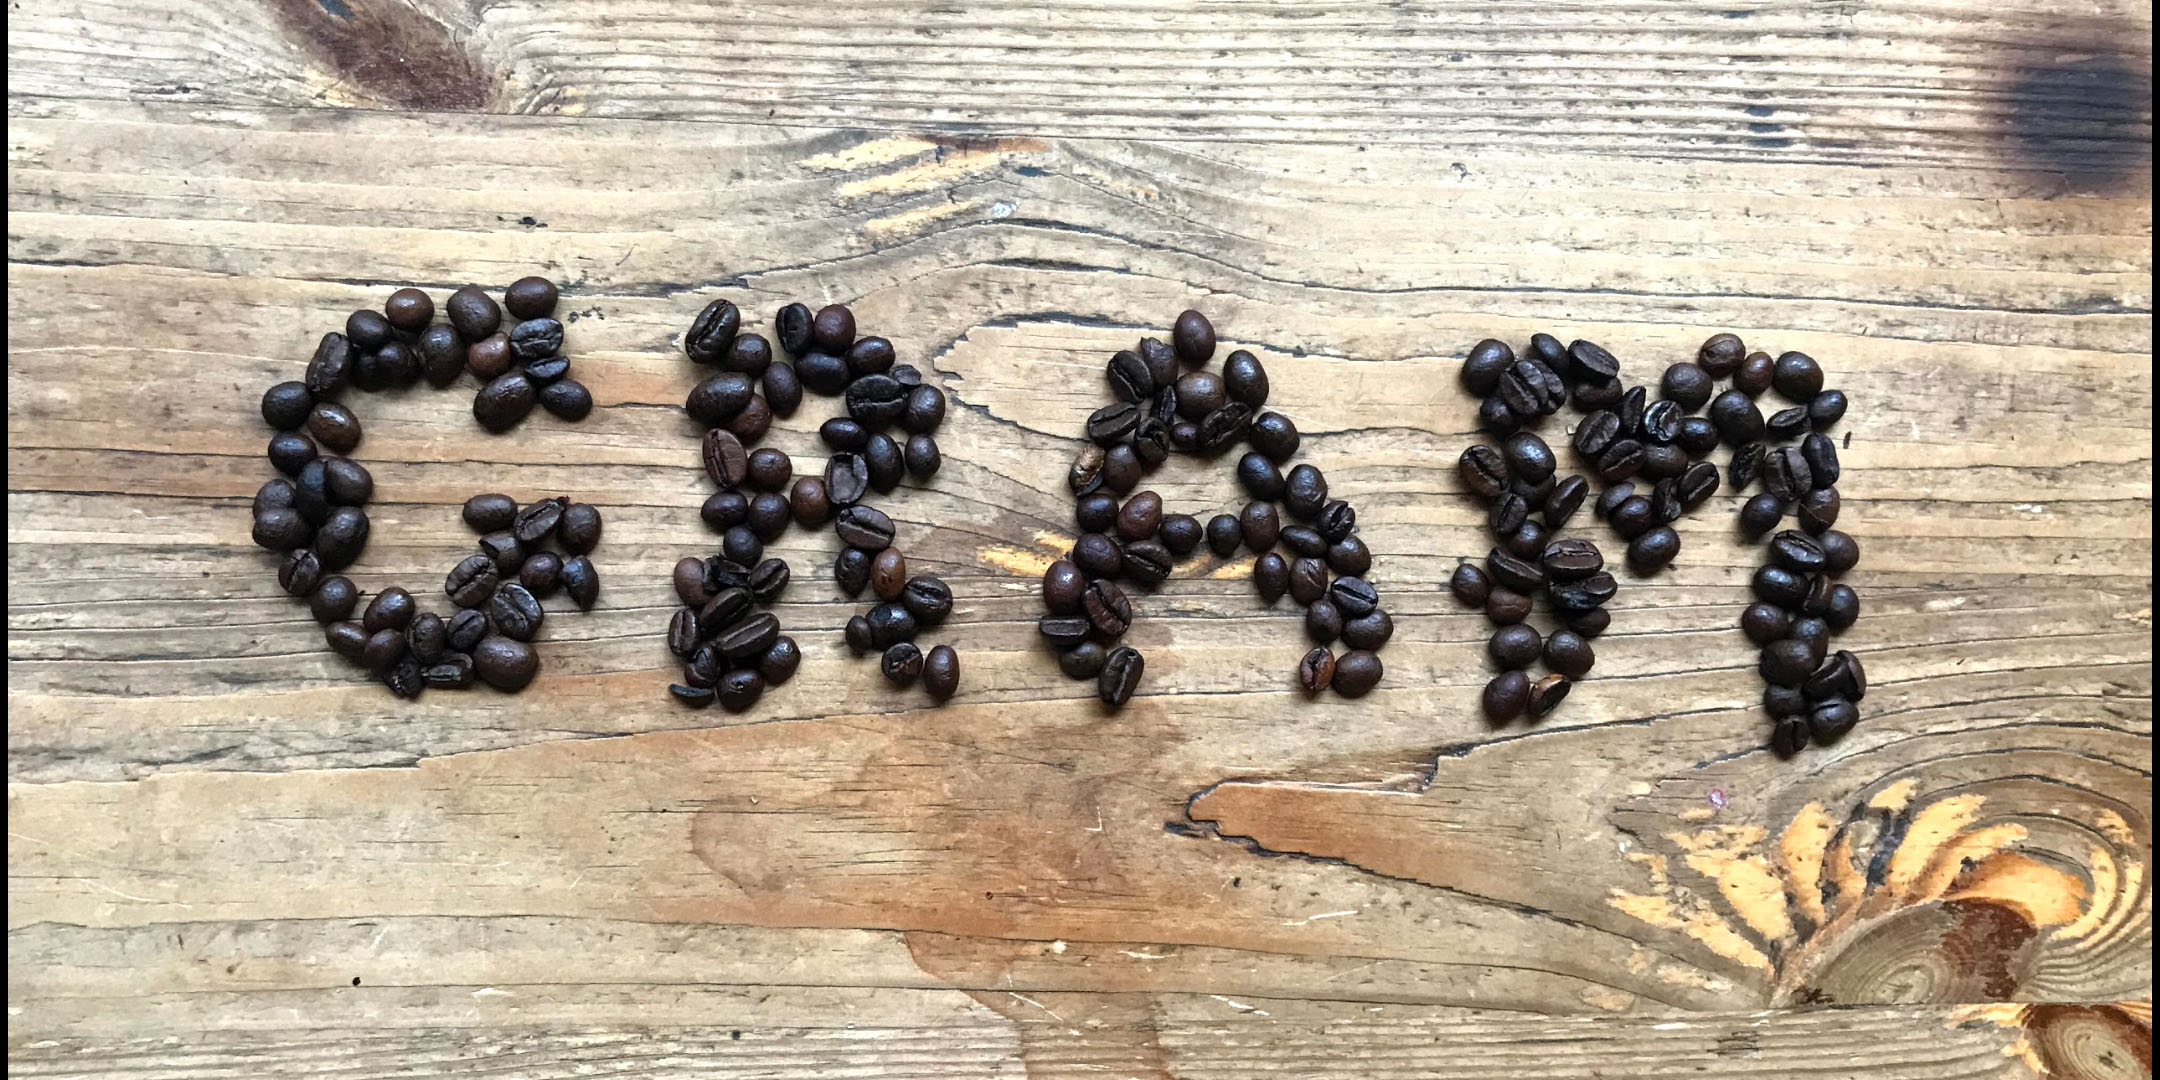
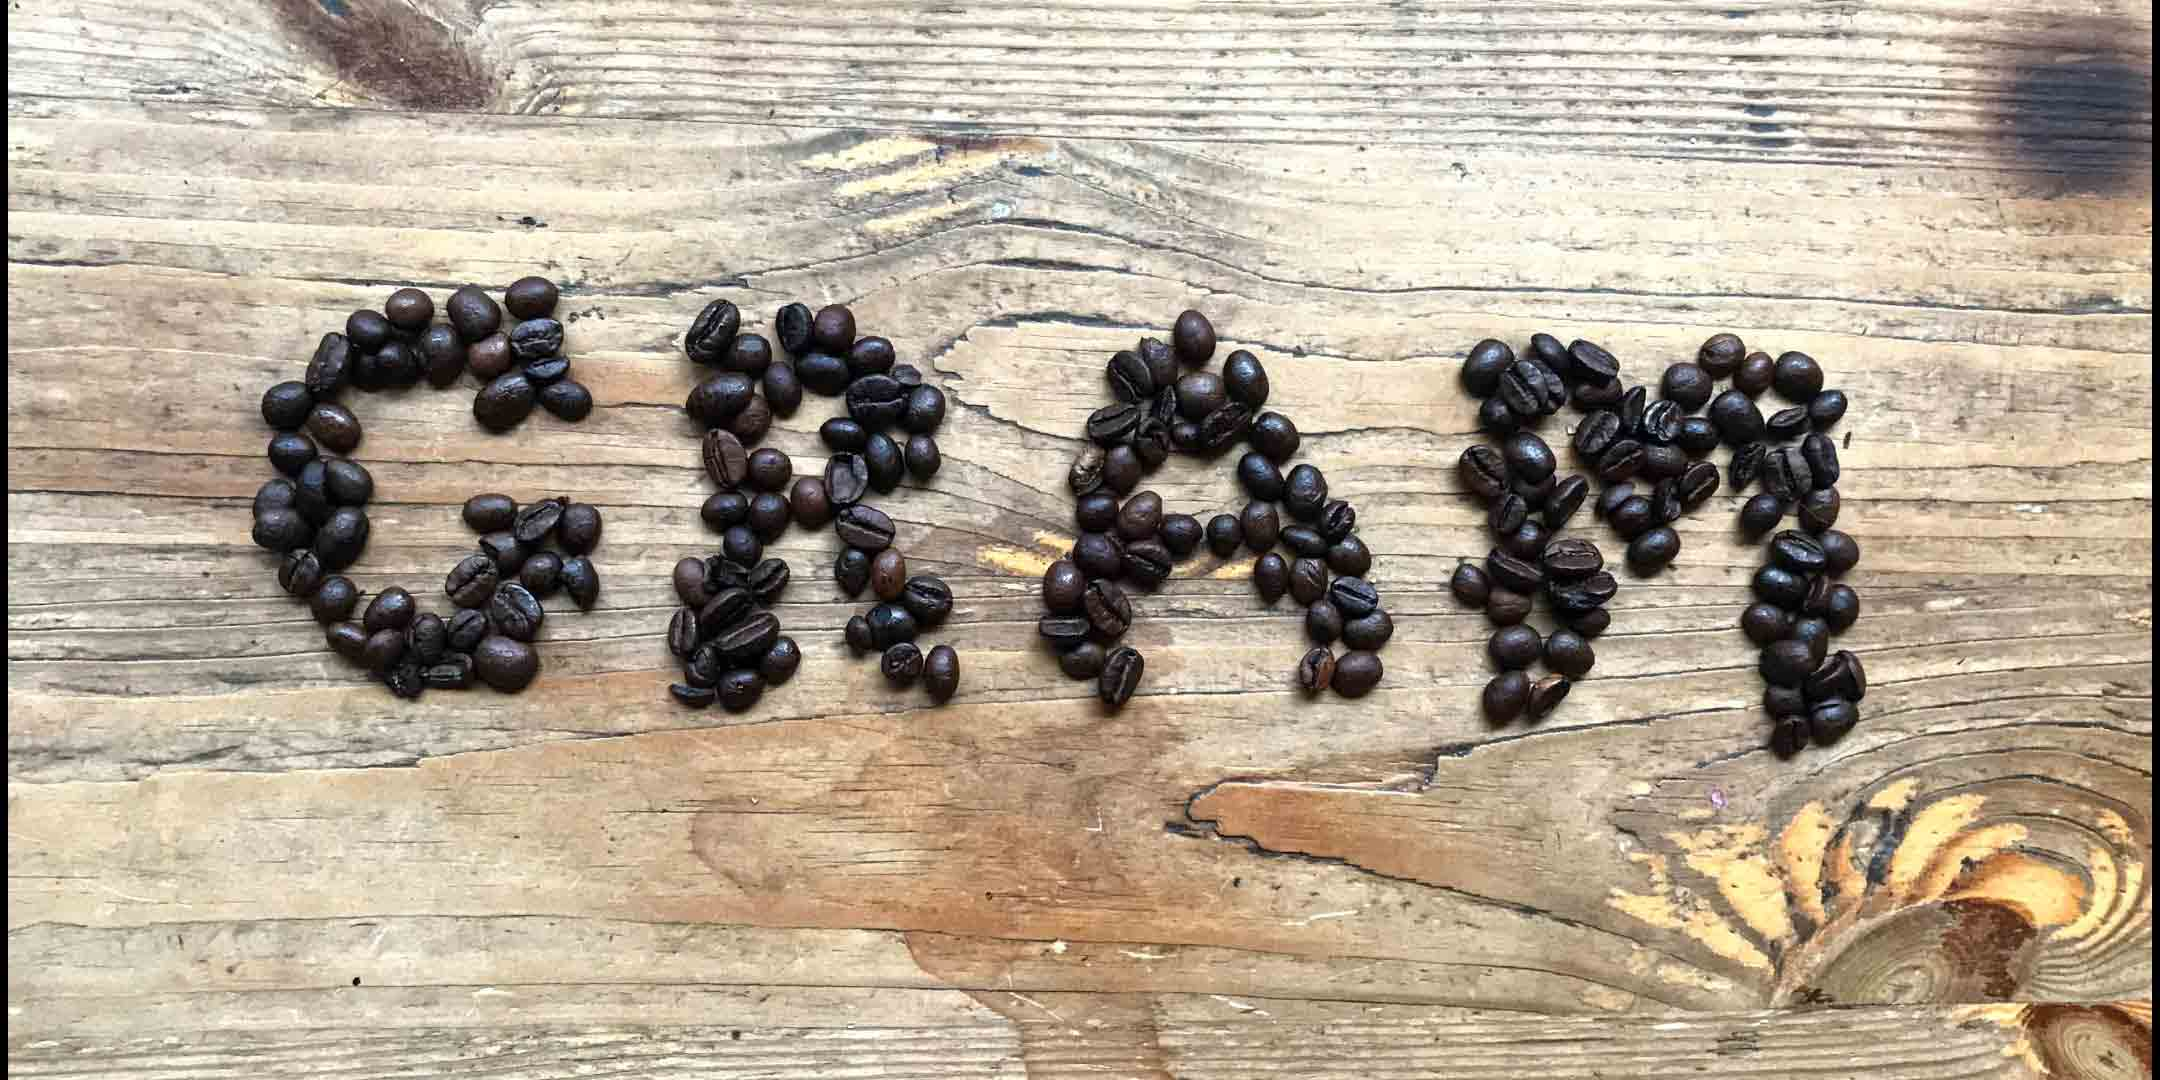
billederne er blevet ændret

diff --git a/index.html b/index.html
@@ -218,7 +218,7 @@
 
                 <div class="middle_row">
                     <div class="image">
-                        <img src="billeder/cup-on-wooden-table.jpeg" alt="kaffebønner">
+                        <img src="billeder/cup-on-wooden-table.jpg" alt="kaffebønner">
                     </div>
 
                     <div class="txt">
